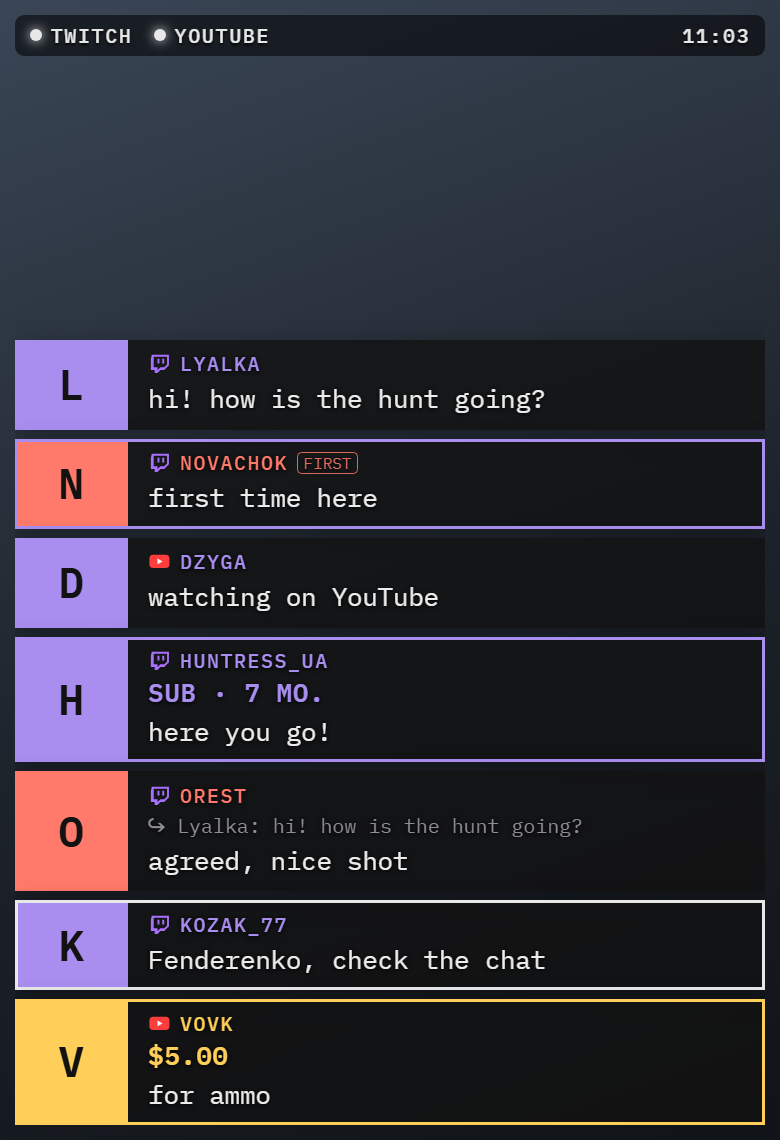
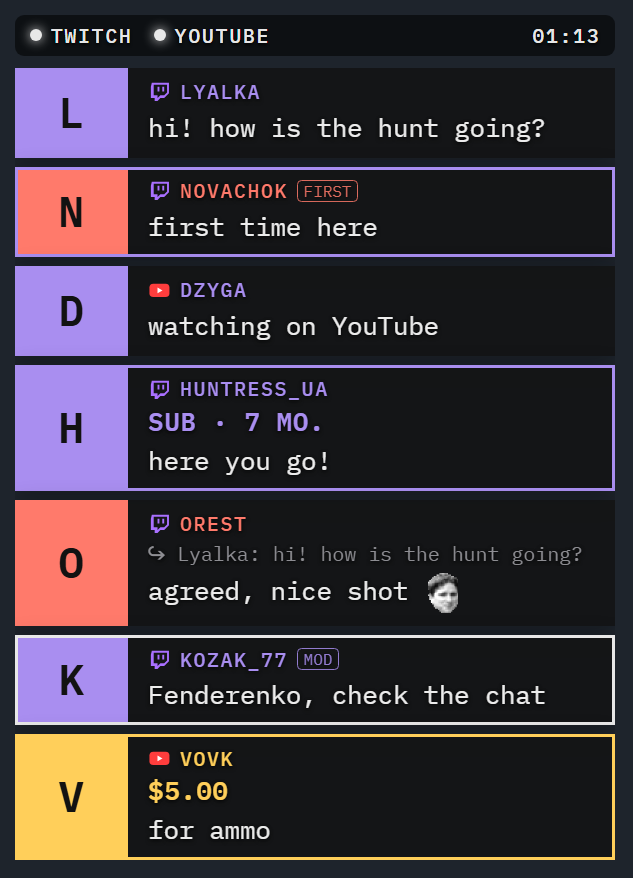
README: product page with five screenshots

diff --git a/README.uk.md b/README.uk.md
@@ -1,66 +1,91 @@
 # Foldback Chat
 
-[English](README.md)
+**Українська** · [English](README.md)
 
-Чат Twitch і / або YouTube в одному прозорому оверлеї для Windows: кожна платформа окремо або обидві в одному списку.
-Його можна вживати двома способами або обома одразу:
-- **поверх гри** — вікно, яке бачиш лише ти: OBS захоплює саму гру, сторонні вікна в стрім не потрапляють (гра має
-  бути у вікні без рамок, не в повноекранному режимі);
-- **в OBS** — той самий чат як джерело «Браузер», його бачать глядачі.
+Чат Twitch і YouTube в одному прозорому оверлеї для Windows — кожна платформа окремо або обидві в одному списку.
+Тримай його **поверх гри**, де його бачиш лише ти, виведи **в OBS** для глядачів або все разом.
 
-<img src="docs/chat.png" alt="Foldback Chat: повідомлення Twitch і YouTube в одному списку" width="390">
+<p align="center">
+  <img src="docs/chat.png" height="360" alt="Чат поверх гри: повідомлення Twitch і YouTube картками, підписка, відповідь, згадка, суперчат">
+  <img src="docs/settings.png" height="360" alt="Налаштування: кольори ніків із палітри, колір акценту й тексту">
+</p>
+<p align="center">
+  <img src="docs/chat-lines.png" height="250" alt="Той самий чат компактними рядками з часом, кольорами ніків Twitch і смужкою підсвічування">
+  <img src="docs/dock.png" height="250" alt="Док OBS: уся історія чату, обране повідомлення позначене">
+</p>
+
+## Що вміє
+
+- **Twitch, YouTube або обидва.** Twitch — як гість, без пароля; YouTube — без ключів, ефір шукається сам. Верхній
+  рядок показує стан кожного каналу, аж до «канал не знайдено».
+- **Поверх гри, лише для тебе.** Прозоре вікно згори, якого OBS не бачить. Закріплене пропускає клацання в гру;
+  відкріплене можна тягнути, міняти розмір за краї й гортати історію коліщатком. Окреме місце для кожної гри на весь
+  екран, вибір монітора й режим «Разом з OBS»: чат видно, поки працює OBS.
+- **В OBS, для глядачів.** Той самий чат як джерело «Браузер», док з усією історією просто у вікні OBS і один клац,
+  щоб вивести будь-яке повідомлення на стрім великою карткою.
+- **Емоути.** Twitch, 7TV, BTTV і FFZ, емодзі YouTube.
+- **Важливе не загубиться.** Згадки й свої слова, новачки, модератори, підписки, рейди, біти, суперчати, бали каналу —
+  рамкою, світінням, смужкою чи тлом. Відповіді показують, кому й на що; постійні глядачі мають свій колір і позначку.
+- **Звуки.** На кожен тип події — вбудований або свій файл, гучність, пауза між звуками. Чуєш їх лише ти: у стрім вони
+  не йдуть.
+- **Свій вигляд.** Картки або компактні рядки, будь-який шрифт Windows, розмір тексту, прозорість, кольори, палітри ніків
+  (готові, свої чи згенеровані з однаковою яскравістю), кількість і зникання повідомлень. Увесь чат може ховатися, коли
+  тихо, і з'являтися з новим повідомленням.
+- **Фільтри.** Боти, команди, посилання, ігнор.
+- **Для інших програм.** Усі повідомлення й події як JSON через WebSocket або SSE — для Streamer.bot, Stream Deck чи
+  своїх скриптів.
+- **9 мов** (English, Українська, Deutsch, Français, Español, Português, Polski, Italiano, Türkçe), налаштування у файлі,
+  один невеликий exe без установника.
 
 ## Завантажити
+
 [Релізи](https://github.com/Fenderenko/FoldbackChat/releases/latest): `FoldbackChat-<версія>.zip` (програма, ліцензія,
 опис) або окремо `FoldbackChat-<версія>.exe`. Установника немає: просто запусти exe. Windows 10 / 11 з Microsoft Edge
 WebView2 Runtime (у Windows 11 він уже є).
 
 ## Запуск
+
 `FoldbackChat.exe` — значок з'явиться в треї. Клік по значку — показати / сховати чат, правий клік — меню.
 Під час першого запуску налаштування відкриваються на сторінці «Канали». Підказка значка в треї показує стан кожного
 каналу.
 
-## В OBS
-Джерела → + → Браузер, адреса `http://127.0.0.1:8792/obs` (у налаштуваннях, сторінка OBS, є кнопка «Копіювати»),
-ширина й висота — будь-які, наприклад 420 × 620. Джерело бере твої канали й вигляд, зміни налаштувань підхоплює одразу,
-тестові повідомлення з налаштувань з'являються і в ньому. Звуків у джерелі немає, програма має бути відкрита.
-
-**Док і обране повідомлення.** Docks → Custom Browser Docks, адреса `http://127.0.0.1:8792/dock`: уся історія чату
-просто у вікні OBS. Клац по повідомленню — і воно з'являється на стрімі в окремому джерелі «Браузер»
-`http://127.0.0.1:8792/obs?featured` (картка, як у чаті, лише більша); ще один клац або задані секунди — і воно зникає.
-
-## Для інших програм
-Усі повідомлення й події (підписки, рейди, біти, суперчати, видалення, стан каналів) як JSON через WebSocket
-`ws://127.0.0.1:8792/api/ws` або SSE `http://127.0.0.1:8792/api/events`, останні 100 повідомлень і команди, щоб вивести
-повідомлення на екран, — для Streamer.bot, Stream Deck чи своїх скриптів. Опис англійською — [docs/API.md](docs/API.md).
+Для чату поверх гри гра має бути у вікні без рамок, не в повноекранному режимі.
 
 ## Клавіші (міняються в налаштуваннях)
+
 - **Alt+Shift+C** — показати / сховати чат
-- **Alt+Shift+X** — закріпити / відкріпити. Відкріплений чат можна тягнути, міняти розмір за краї й гортати історію
-  коліщатком; закріплений пропускає клацання в гру.
+- **Alt+Shift+X** — закріпити / відкріпити
 - **Alt+Shift+S** — відкрити / закрити налаштування
 
-## Що вміє
-- Twitch (як гість, без пароля) і YouTube (без ключів; ефір шукається сам)
-- емоути Twitch, 7TV, BTTV, FFZ і емодзі YouTube
-- підсвічування згадок, своїх слів, новачків, модераторів, підписок, рейдів, бітів, суперчатів, повідомлень за бали каналу
-- відповіді (кому й на що), свої кольори й позначки для глядачів
-- звуки на кожен тип події: вбудовані або свій файл, гучність, пауза між звуками
-- вигляд: картки або рядки, шрифти (будь-який шрифт Windows), розмір тексту, прозорість, кольори, кількість і
-  зникання повідомлень; увесь чат може ховатися, коли тихо, і з'являтися з новим повідомленням
-- палітри кольорів ніків: готові, свої, згенеровані
-- фільтри: боти, команди, посилання, ігнор
-- верхній рядок: стан каналів (зокрема «канал не знайдено»), глядачі, скільки йде стрім, годинник — розмір, колір і
-  підкладка налаштовуються
-- окреме місце чату для кожної гри на весь екран, вибір монітора; режим «Разом з OBS» — чат видно, поки працює OBS
-- мови: англійська, українська, німецька, французька, іспанська, португальська, польська, італійська, турецька
-- передає YouTube-чат у браузерні джерела OBS (SSE `http://127.0.0.1:8792/events`), поки програма відкрита
+## В OBS
 
-Налаштування, свої звуки, положення вікна, клавіші й місця для ігор зберігаються в `%APPDATA%\Foldback Chat`;
-у `%LOCALAPPDATA%\Foldback Chat` — профіль WebView2.
+Усі адреси — в налаштуваннях, сторінка OBS, кожна з кнопкою «Копіювати». Програма має бути відкрита.
+
+- **Чат.** Джерела → + → Браузер, `http://127.0.0.1:8792/obs`, ширина й висота — будь-які (наприклад 420 × 620). Бере
+  твої канали й вигляд, зміни налаштувань підхоплює одразу, тестові повідомлення з налаштувань з'являються і в ньому;
+  звуків немає.
+- **Док.** Docks → Custom Browser Docks, `http://127.0.0.1:8792/dock`: уся історія чату у вікні OBS.
+- **Обране повідомлення.** Ще одне джерело «Браузер», `http://127.0.0.1:8792/obs?featured` (наприклад 800 × 300). Клац
+  по повідомленню в доці — і воно на стрімі; ще один клац або задані секунди — і воно зникає.
+
+<p align="center">
+  <img src="docs/featured.png" width="560" alt="Обране повідомлення на стрімі: велика картка з ніком, відповіддю й емоутом">
+</p>
+
+## Для інших програм
+
+Усі повідомлення й події (підписки, рейди, біти, суперчати, видалення, стан каналів) як JSON через WebSocket
+`ws://127.0.0.1:8792/api/ws` або SSE `http://127.0.0.1:8792/api/events`, останні 100 повідомлень і команди, щоб вивести
+повідомлення на екран. Опис англійською — [docs/API.md](docs/API.md).
+
+## Де що зберігається
+
+Налаштування, свої звуки, положення вікна, клавіші й місця для ігор — `%APPDATA%\Foldback Chat`.
+Профіль WebView2 — `%LOCALAPPDATA%\Foldback Chat`.
 
 ## Збірка
-Rust (MSVC); сама програма — `src/` (Rust) і `web/` (сторінки чату й налаштувань, HTML / CSS / JavaScript).
+
+Rust (MSVC); сама програма — `src/` (Rust) і `web/` (сторінки чату, налаштувань і дока, HTML / CSS / JavaScript).
 ```
 cargo build --release
 copy target\release\FoldbackChat.exe FoldbackChat.exe
@@ -70,7 +95,9 @@ Python потрібен лише для службових скриптів у `
 Python не потрібен.
 
 ## Підтримати
+
 Foldback Chat безкоштовний. Якщо він тобі знадобився, можна підтримати розробку: [банка monobank](https://send.monobank.ua/jar/6VR4c6nxzz).
 
 ## Ліцензія
+
 GPL-3.0 — див. [LICENSE](LICENSE).

diff --git a/README.md b/README.md
@@ -1,67 +1,90 @@
 # Foldback Chat
 
-[Українською](README.uk.md)
+[Українська](README.uk.md) · **English**
 
-Twitch and/or YouTube chat in one transparent overlay for Windows: either platform on its own or both in one list.
-Use it two ways, or both at once:
-- **over your game** — a window only you see: OBS captures the game itself, other windows never get into the stream
-  (the game has to run in a borderless window, not in exclusive fullscreen);
-- **in OBS** — the same chat as a browser source, for your viewers to see.
+Twitch and YouTube chat in one transparent overlay for Windows — either platform on its own or both in one list.
+Keep it **over your game**, where only you see it, put it **in OBS** for your viewers, or both at once.
 
-<img src="docs/chat.png" alt="Foldback Chat: Twitch and YouTube messages in one list" width="390">
+<p align="center">
+  <img src="docs/chat.png" height="360" alt="The chat over the game: Twitch and YouTube messages as cards, a sub, a reply, a mention, a Super Chat">
+  <img src="docs/settings.png" height="360" alt="Settings: colours of names from a palette, accent and text colour">
+</p>
+<p align="center">
+  <img src="docs/chat-lines.png" height="250" alt="The same chat as compact lines with time, Twitch name colours and a side bar for highlights">
+  <img src="docs/dock.png" height="250" alt="The OBS dock: the whole chat history, the featured message marked">
+</p>
+
+## Features
+
+- **Twitch, YouTube or both.** Twitch as a guest, no password; YouTube without keys, the live stream is found by itself.
+  The top line shows each channel's state, down to "channel not found".
+- **Over your game, for your eyes only.** A transparent window on top that OBS never captures. Locked, it lets clicks
+  through to the game; unlocked, drag it, resize it by the edges and scroll back with the mouse wheel. A separate place
+  for every fullscreen game, a choice of monitor, and "With OBS" mode: the chat shows while OBS runs.
+- **In OBS, for your viewers.** The same chat as a Browser source, a dock with the whole history right in the OBS
+  window, and one click to put any message on stream as a large card.
+- **Emotes.** Twitch, 7TV, BTTV and FFZ, YouTube emoji.
+- **Nothing important slips by.** Mentions and your own words, first-timers, moderators, subs, raids, bits, Super Chats,
+  channel points — as a ring, a glow, a side bar or a tint. Replies show who and what they answer; regulars get their own
+  colour and mark.
+- **Sounds.** One per kind of event, built-in or your own file, with volume and a pause between sounds. Only you hear
+  them: they never get into the stream.
+- **Your look.** Cards or compact lines, any font installed in Windows, text size, transparency, colours, name palettes
+  (ready-made, your own or generated with even brightness), how many messages and when they fade. The whole chat can
+  hide when it's quiet and come back with a new message.
+- **Filters.** Bots, commands, links, ignored people.
+- **For other apps.** Every message and event as JSON over WebSocket or SSE — for Streamer.bot, Stream Deck or your own
+  scripts.
+- **9 languages** (English, Українська, Deutsch, Français, Español, Português, Polski, Italiano, Türkçe), settings in a
+  file, one small exe without an installer.
 
 ## Download
+
 [Releases](https://github.com/Fenderenko/FoldbackChat/releases/latest): `FoldbackChat-<version>.zip` (the app, license,
 this file) or the bare `FoldbackChat-<version>.exe`. No installer: run the exe. Windows 10 / 11 with Microsoft Edge
 WebView2 Runtime (already part of Windows 11).
 
 ## Start
+
 Run `FoldbackChat.exe` — an icon appears in the tray. Click it to show / hide the chat, right-click for the menu.
 On the first start the settings open on the channels page. The tray tooltip shows whether each channel is connected.
 
-## In OBS
-Sources → + → Browser, URL `http://127.0.0.1:8792/obs` (the settings, page OBS, have a copy button), any width and
-height, e.g. 420 × 620. The source follows your channels and look, settings changes apply at once, test messages from
-the settings show there too. It has no sounds, and the app has to be running.
-
-**Dock and featured message.** Docks → Custom Browser Docks, URL `http://127.0.0.1:8792/dock`: the whole chat history
-right in the OBS window. Click a message and it shows up on stream in a separate Browser source,
-`http://127.0.0.1:8792/obs?featured` (a card as in the chat, only larger); click it again, or wait the set seconds,
-and it goes away.
-
-## For other apps
-Every message and event (subs, raids, bits, Super Chats, deletions, channel states) as JSON over WebSocket
-`ws://127.0.0.1:8792/api/ws` or SSE `http://127.0.0.1:8792/api/events`, the last 100 messages, and commands to feature
-a message — for Streamer.bot, Stream Deck or your own scripts. See [docs/API.md](docs/API.md).
+For the chat over the game, the game has to run in a borderless window, not in exclusive fullscreen.
 
 ## Hotkeys (change them in the settings)
+
 - **Alt+Shift+C** — show / hide the chat
-- **Alt+Shift+X** — lock / unlock. An unlocked chat can be dragged, resized by its edges and scrolled back with the
-  mouse wheel; a locked one lets clicks through to the game.
+- **Alt+Shift+X** — lock / unlock
 - **Alt+Shift+S** — open / close the settings
 
-## Features
-- Twitch (as a guest, no password) and YouTube (no keys; the live stream is found by itself)
-- Twitch, 7TV, BTTV, FFZ emotes and YouTube emoji
-- highlights for mentions, your own words, first-timers, moderators, subs, raids, bits, Super Chats, channel points
-- replies (who and what), own colours and marks for viewers
-- a sound for every kind of event: built-in or your own file, volume, a pause between sounds
-- look: cards or lines, fonts (any font installed in Windows), text size, transparency, colours, how many messages
-  and when they fade; the whole chat can hide when it's quiet and come back with a new message
-- name colour palettes: ready-made, your own, generated
-- filters: bots, commands, links, ignored people
-- top line: channel status (including "channel not found"), viewers, stream time, clock — size, colour and backing
-  adjustable
-- a separate chat position for every fullscreen game, a choice of monitor; "With OBS" mode — the chat shows while OBS
-  runs
-- languages: English, Ukrainian, German, French, Spanish, Portuguese, Polish, Italian, Turkish
-- sends the YouTube chat to OBS browser sources (SSE `http://127.0.0.1:8792/events`) while the app is open
+## In OBS
 
-Settings, own sounds, the window position, hotkeys and per-game positions are kept in `%APPDATA%\Foldback Chat`;
-`%LOCALAPPDATA%\Foldback Chat` holds the WebView2 profile.
+All addresses are in the settings, page OBS, each with a copy button. The app has to be running.
+
+- **The chat.** Sources → + → Browser, `http://127.0.0.1:8792/obs`, any width and height (e.g. 420 × 620). It follows
+  your channels and look, settings changes apply at once, test messages from the settings show there too; no sounds.
+- **The dock.** Docks → Custom Browser Docks, `http://127.0.0.1:8792/dock`: the whole chat history in the OBS window.
+- **The featured message.** Another Browser source, `http://127.0.0.1:8792/obs?featured` (e.g. 800 × 300). Click a
+  message in the dock and it shows up on stream; click it again, or wait the set seconds, and it goes away.
+
+<p align="center">
+  <img src="docs/featured.png" width="560" alt="The featured message on stream: a large card with the name, the reply and an emote">
+</p>
+
+## For other apps
+
+Every message and event (subs, raids, bits, Super Chats, deletions, channel states) as JSON over WebSocket
+`ws://127.0.0.1:8792/api/ws` or SSE `http://127.0.0.1:8792/api/events`, the last 100 messages, and commands to feature
+a message. See [docs/API.md](docs/API.md).
+
+## Where things are kept
+
+Settings, own sounds, the window position, hotkeys and per-game positions: `%APPDATA%\Foldback Chat`.
+The WebView2 profile: `%LOCALAPPDATA%\Foldback Chat`.
 
 ## Build
-Rust (MSVC), the app itself: `src/` (Rust) and `web/` (the chat and settings pages, HTML / CSS / JavaScript).
+
+Rust (MSVC), the app itself: `src/` (Rust) and `web/` (the chat, settings and dock pages, HTML / CSS / JavaScript).
 ```
 cargo build --release
 copy target\release\FoldbackChat.exe FoldbackChat.exe
@@ -71,7 +94,9 @@ the translations and generates `web/i18n.js`, `check_i18n.py` checks them. Their
 build doesn't need Python.
 
 ## Support
+
 Foldback Chat is free. If it is useful to you, you can support it: [monobank jar](https://send.monobank.ua/jar/6VR4c6nxzz).
 
 ## License
+
 GPL-3.0 — see [LICENSE](LICENSE).
